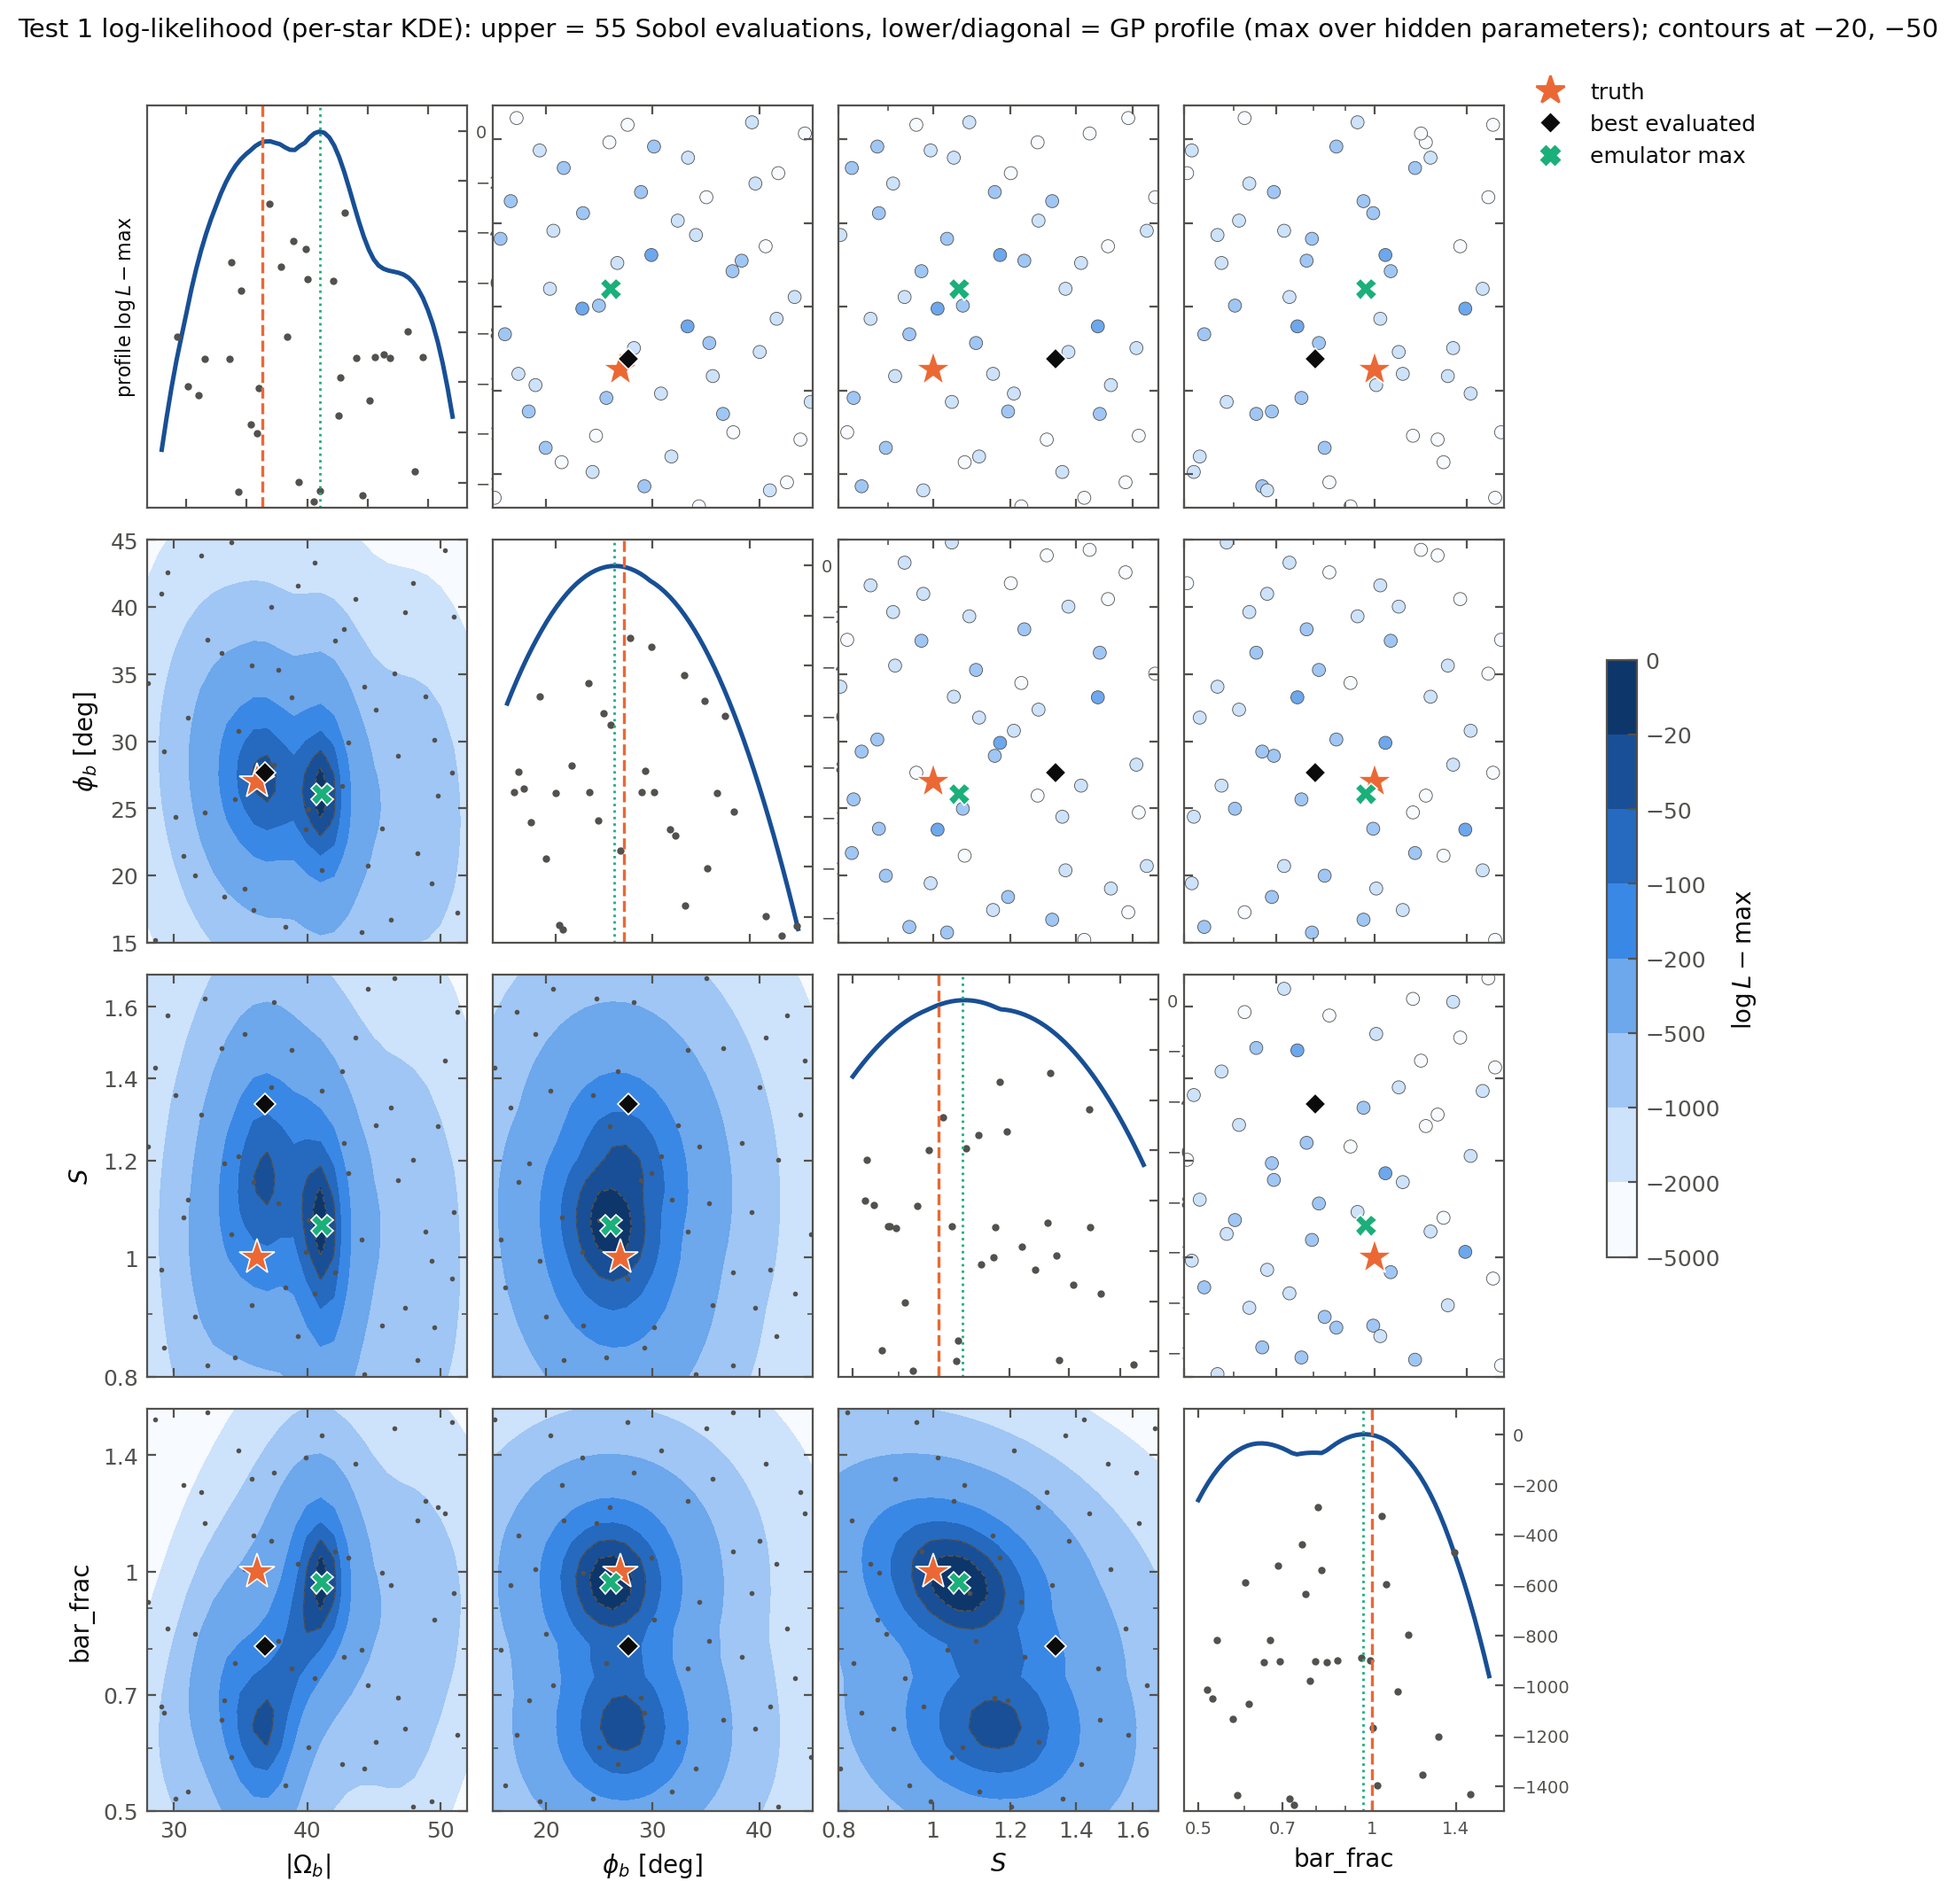
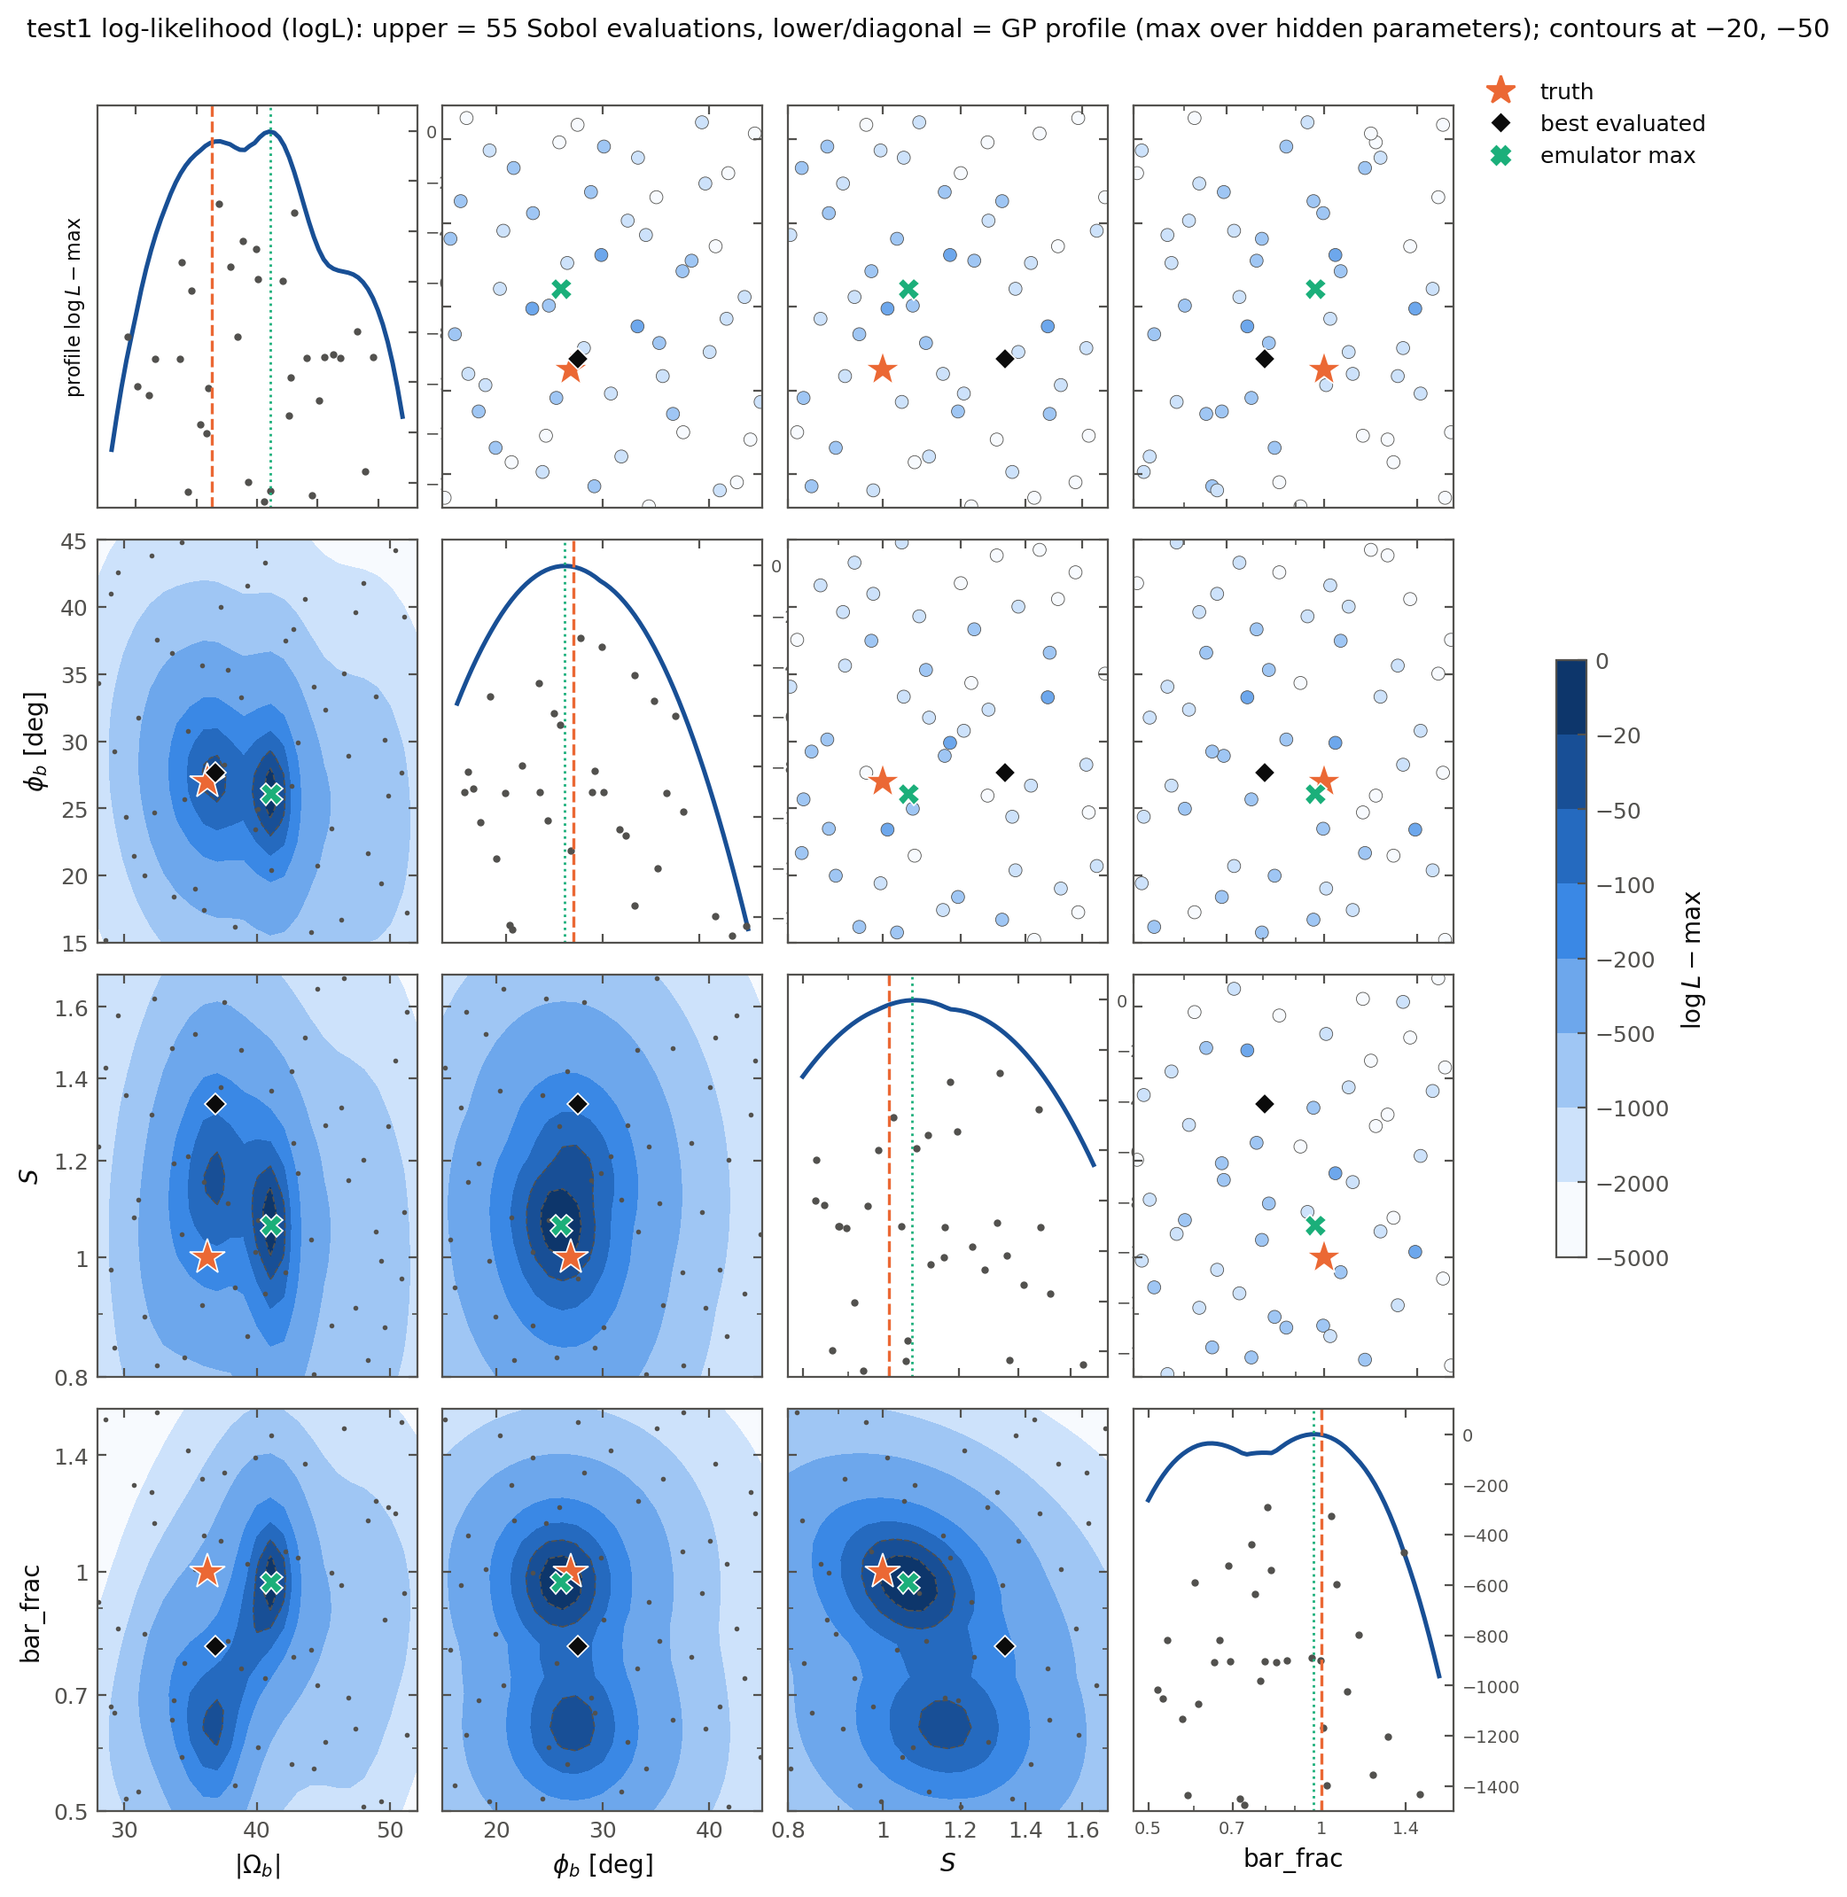
Emulator and corner scripts: --run au18|nbody and --column (any likelihood)

diff --git a/scripts/test1_gp_emulator.py b/scripts/test1_gp_emulator.py
@@ -6,6 +6,9 @@ to validate the emulator. Inputs are mapped to the unit cube of test1_qmc.BOX
 with a Matern-5/2 kernel (one length scale per parameter) and a white-noise term.
 The posterior is sampled with emcee on the emulator mean, with flat priors in the box and logL
 taken at face value (formal likelihood).
+Usage: python test1_gp_emulator.py [--run au18|nbody] [--column logL|logL_gauss|chi2_means|...]
+       [--rmin R] [--rmax R]   (chi2 columns are converted to log L = -chi2/2; radial cuts use the
+       saved per-star log p of the KDE (logL) or local-Gaussian (logL_gauss) likelihood)
 """
 import argparse
 import json
@@ -22,11 +25,47 @@ from sklearn.gaussian_process.kernels import ConstantKernel, Matern, WhiteKernel
 
 from common import set_style, savefig, INK, INK_2, INK_MUTED, ACCENT, BLUE_RAMP
 from test1_qmc import OUT_CSV, OUT_DIR, LOGP_DIR, MOCK, BOX, TRUTH
+import test1_nbody_qmc as _nq
 
 NAMES = [r"$|\Omega_b|$ [km s$^{-1}$ kpc$^{-1}$]", r"$\phi_b$ [deg]", r"$S$", r"bar_frac"]
 KEYS = ["Omega_abs", "phi_b_deg", "S", "bar_frac"]
+RUNS = {
+    "au18": dict(csv=OUT_CSV, box=BOX, truth=TRUTH, out=OUT_DIR, mock=MOCK, prefix="test1",
+                 perstar=lambda i, col: np.load(LOGP_DIR / f"{i:03d}.npy")),
+    "nbody": dict(csv=_nq.OUT_CSV, box=_nq.BOX, truth=_nq.TRUTH, out=_nq.OUT_CSV.parent, mock=_nq.MOCK,
+                  prefix="test1_nbody",
+                  perstar=lambda i, col: np.load(_nq.ARR_DIR / f"{i:03d}.npz")[
+                      "logp_gauss" if col == "logL_gauss" else "logp_kde"]),
+}
+RUN = RUNS["au18"]
 LO = np.array([v[0] for v in BOX.values()])
 HI = np.array([v[1] for v in BOX.values()])
+
+
+def use_run(name):
+    """Select the run whose design box, truth and files the module functions use."""
+    global RUN, LO, HI
+    RUN = RUNS[name]
+    LO = np.array([v[0] for v in RUN["box"].values()])
+    HI = np.array([v[1] for v in RUN["box"].values()])
+    return RUN
+
+
+def load_table(column="logL", rmin=None, rmax=None):
+    """Design table with the chosen likelihood in column 'logL', and a tag for output names."""
+    df = pd.read_csv(RUN["csv"]).sort_values("idx").reset_index(drop=True)
+    tag = "" if column == "logL" else f"_{column}"
+    if rmin is not None or rmax is not None:
+        with h5py.File(RUN["mock"], "r") as f:
+            R = np.hypot(f["x"][:], f["y"][:])
+        sel = (R >= (rmin or 0)) & (R < (rmax or np.inf))
+        df["logL"] = [float(np.sum(RUN["perstar"](i, column)[sel])) for i in df["idx"]]
+        tag += f"_R{rmin or 0:g}-{rmax or 8:g}"
+    elif column.startswith("chi2"):
+        df["logL"] = -0.5 * df[column]
+    else:
+        df["logL"] = df[column]
+    return df, tag
 
 
 def to_unit(df):
@@ -67,24 +106,21 @@ class Emulator:
 
 def main():
     ap = argparse.ArgumentParser()
+    ap.add_argument("--run", default="au18", choices=list(RUNS))
+    ap.add_argument("--column", default="logL")
     ap.add_argument("--rmin", type=float, default=None, help="use only stars with R >= rmin [kpc]")
     ap.add_argument("--rmax", type=float, default=None, help="use only stars with R < rmax [kpc]")
     args = ap.parse_args()
     set_style()
-    df = pd.read_csv(OUT_CSV).sort_values("idx")
-    tag = ""
-    if args.rmin is not None or args.rmax is not None:
-        with h5py.File(MOCK, "r") as f:
-            R = np.hypot(f["x"][:], f["y"][:])
-        sel = (R >= (args.rmin or 0)) & (R < (args.rmax or np.inf))
-        df["logL"] = [float(np.sum(np.load(LOGP_DIR / f"{i:03d}.npy")[sel])) for i in df["idx"]]
-        tag = f"_R{args.rmin or 0:g}-{args.rmax or 8:g}"
-        print(f"using {sel.sum()} stars with {args.rmin or 0} <= R < {args.rmax or 'inf'} kpc")
+    run = use_run(args.run)
+    TRUTH, OUT_DIR, pre = run["truth"], run["out"], run["prefix"]
+    df, tag = load_table(args.column, args.rmin, args.rmax)
     tr = df[df.kind == "qmc"]
     truth_row = df[df.kind == "truth"]
     u, y = to_unit(tr), tr["logL"].values
     emu = Emulator(u, y)
-    res = dict(n_train=len(tr), kernel=str(emu.gp.kernel_), radial_cut=[args.rmin, args.rmax])
+    res = dict(run=args.run, column=args.column, n_train=len(tr), kernel=str(emu.gp.kernel_),
+               radial_cut=[args.rmin, args.rmax])
 
     # leave-one-out accuracy
     loo = np.array([Emulator(np.delete(u, i, 0), np.delete(y, i)).predict(u[i:i + 1])[0] for i in range(len(u))])
@@ -147,14 +183,14 @@ def main():
                 ax.set_ylabel(r"$\log L - \max_{\rm design}$" + f"\n({lab})")
     fig.suptitle("Test 1 GP emulator: orange dashed = truth, black dotted = emulator maximum; band = ±2σ",
                  y=0.98, fontsize=11)
-    savefig(fig, f"test1_emulator_slices{tag}")
+    savefig(fig, f"{pre}_emulator_slices{tag}")
 
     # figure 2: posterior corner plot
     fig = corner.corner(post, labels=NAMES, truths=tv, truth_color=ACCENT, color=BLUE_RAMP[5],
                         quantiles=[0.16, 0.5, 0.84], show_titles=True, title_fmt=".3f",
                         title_kwargs=dict(fontsize=9), label_kwargs=dict(fontsize=10))
     fig.suptitle("Test 1 posterior from the GP emulator (formal likelihood); orange = truth", y=1.02)
-    savefig(fig, f"test1_emulator_corner{tag}")
+    savefig(fig, f"{pre}_emulator_corner{tag}")
 
     # figure 3: leave-one-out
     fig, ax = plt.subplots(figsize=(4.6, 4.4))
@@ -165,7 +201,7 @@ def main():
     ax.set_ylabel(r"leave-one-out emulator $\log L$ − max")
     ax.set_title(f"LOO rms {res['loo_rms']:.0f} (within 2000 of max: {res['loo_rms_within_2000_of_max']:.0f})",
                  color=INK_2, fontsize=9.5)
-    savefig(fig, f"test1_emulator_loo{tag}")
+    savefig(fig, f"{pre}_emulator_loo{tag}")
 
 
 if __name__ == "__main__":

diff --git a/scripts/plot_test1_logl_corner.py b/scripts/plot_test1_logl_corner.py
@@ -4,7 +4,8 @@ Upper triangle: the evaluated Sobol points, coloured by logL - max. Lower triang
 profile log-likelihood of the GP emulator (test1_gp_emulator.Emulator, fitted to the Sobol points only),
 i.e. the maximum over the parameters not shown, found on a grid. Truth, best evaluated point and
 emulator maximum are marked.
-Usage: python plot_test1_logl_corner.py [--rmin R] [--rmax R]   (radial cuts need per-star files)
+Usage: python plot_test1_logl_corner.py [--run au18|nbody] [--column logL|logL_gauss|chi2_...]
+       [--rmin R] [--rmax R]   (radial cuts need per-star files)
 """
 import argparse
 
@@ -17,8 +18,8 @@ from matplotlib.ticker import FixedLocator, NullFormatter, FormatStrFormatter
 from scipy.optimize import minimize
 
 from common import set_style, savefig, INK, INK_2, ACCENT, BLUE_RAMP
-from test1_qmc import OUT_CSV, LOGP_DIR, MOCK, TRUTH
-from test1_gp_emulator import Emulator, to_unit, from_unit, LO, HI, KEYS
+import test1_gp_emulator as ge
+from test1_gp_emulator import Emulator, to_unit, from_unit, KEYS
 
 LABELS = [r"$|\Omega_b|$", r"$\phi_b$ [deg]", r"$S$", r"bar_frac"]
 LEVELS = [-5000, -2000, -1000, -500, -200, -100, -50, -20, 0.1]
@@ -34,7 +35,7 @@ N2, NOTHER, N1 = 25, 12, 60
 
 def phys(j, u):
     """Unit-cube coordinate -> physical value of parameter j."""
-    v = LO[j] + np.asarray(u) * (HI[j] - LO[j])
+    v = ge.LO[j] + np.asarray(u) * (ge.HI[j] - ge.LO[j])
     return np.exp(v) if j >= 2 else v
 
 
@@ -53,20 +54,15 @@ def profile(emu, dims):
 
 def main():
     ap = argparse.ArgumentParser()
+    ap.add_argument("--run", default="au18", choices=list(ge.RUNS))
+    ap.add_argument("--column", default="logL")
     ap.add_argument("--rmin", type=float, default=None)
     ap.add_argument("--rmax", type=float, default=None)
     args = ap.parse_args()
     set_style()
-    df = pd.read_csv(OUT_CSV).sort_values("idx")
-    tag = ""
-    if args.rmin is not None or args.rmax is not None:
-        with h5py.File(MOCK, "r") as f:
-            R = np.hypot(f["x"][:], f["y"][:])
-        sel = (R >= (args.rmin or 0)) & (R < (args.rmax or np.inf))
-        have = [i for i in df["idx"] if (LOGP_DIR / f"{i:03d}.npy").exists()]
-        df = df[df["idx"].isin(have)].copy()
-        df["logL"] = [float(np.sum(np.load(LOGP_DIR / f"{i:03d}.npy")[sel])) for i in df["idx"]]
-        tag = f"_R{args.rmin or 0:g}-{args.rmax or 8:g}"
+    run = ge.use_run(args.run)
+    TRUTH = run["truth"]
+    df, tag = ge.load_table(args.column, args.rmin, args.rmax)
     tr = df[df.kind == "qmc"]
     u, y = to_unit(tr), tr["logL"].values
     emu = Emulator(u, y)
@@ -141,10 +137,10 @@ def main():
     cb.set_label(r"$\log L - \max$")
     handles = [plt.Line2D([], [], marker=mk, color=c, ls="", ms=ms * 0.8, label=lab) for _, c, mk, ms, lab in marks]
     fig.legend(handles=handles, loc="upper right", bbox_to_anchor=(0.86, 0.9), fontsize=9)
-    fig.suptitle(f"Test 1 log-likelihood (per-star KDE{', ' + tag[1:] + ' kpc' if tag else ''}): "
+    fig.suptitle(f"{run['prefix']} log-likelihood ({args.column}{', ' + tag[1:] if tag else ''}): "
                  f"upper = {len(tr)} Sobol evaluations, lower/diagonal = GP profile (max over hidden parameters); "
                  "contours at −20, −50", y=0.92, fontsize=10.5)
-    savefig(fig, "test1_logl_corner" + tag)
+    savefig(fig, f"{run['prefix']}_logl_corner" + tag)
 
 
 if __name__ == "__main__":
